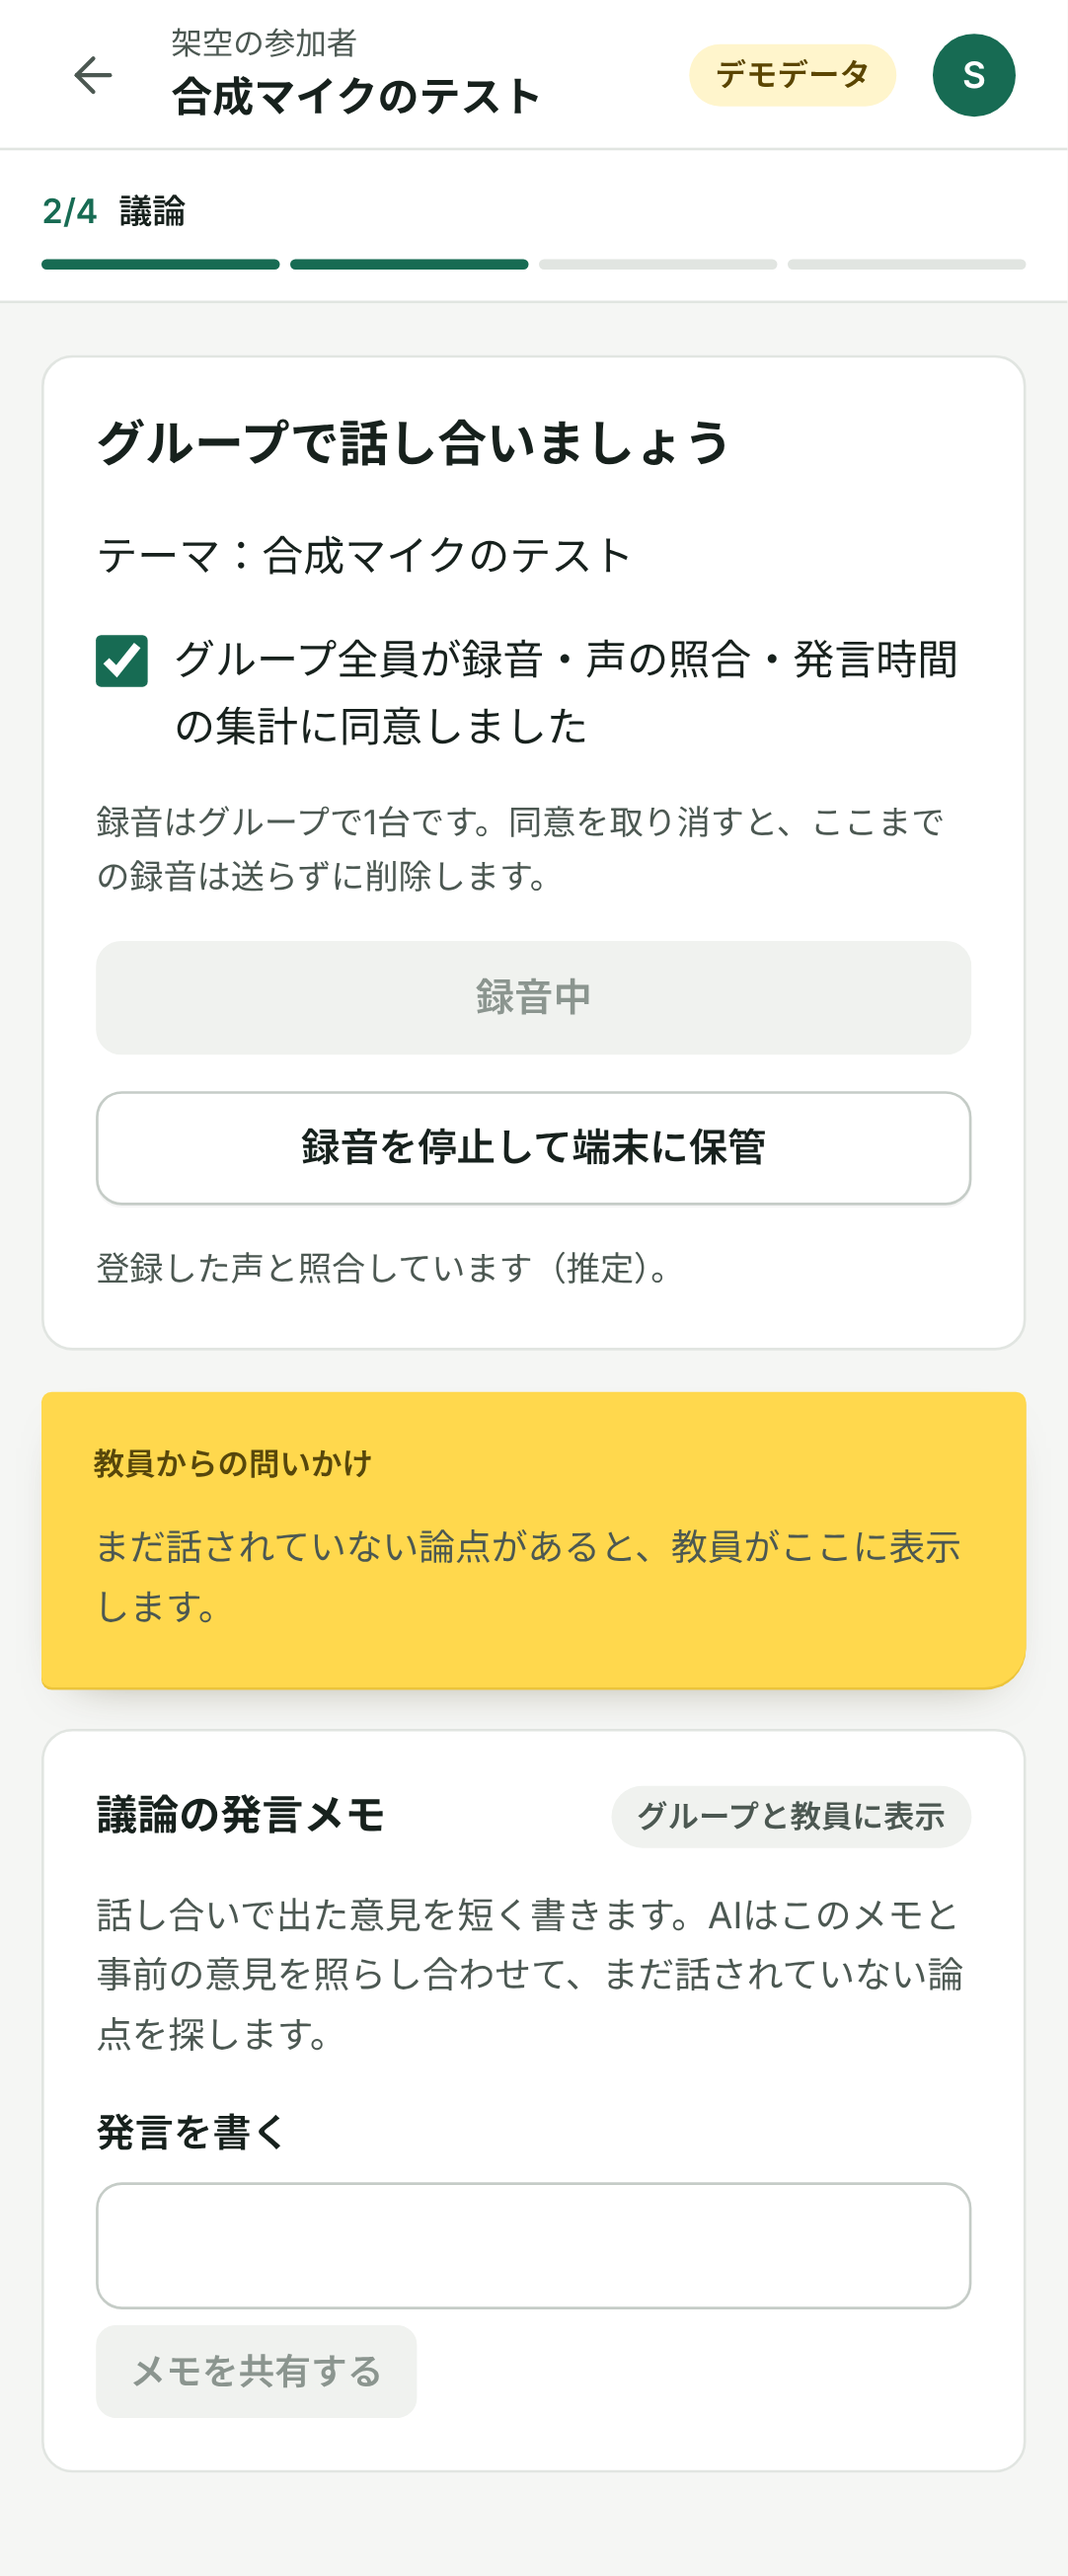
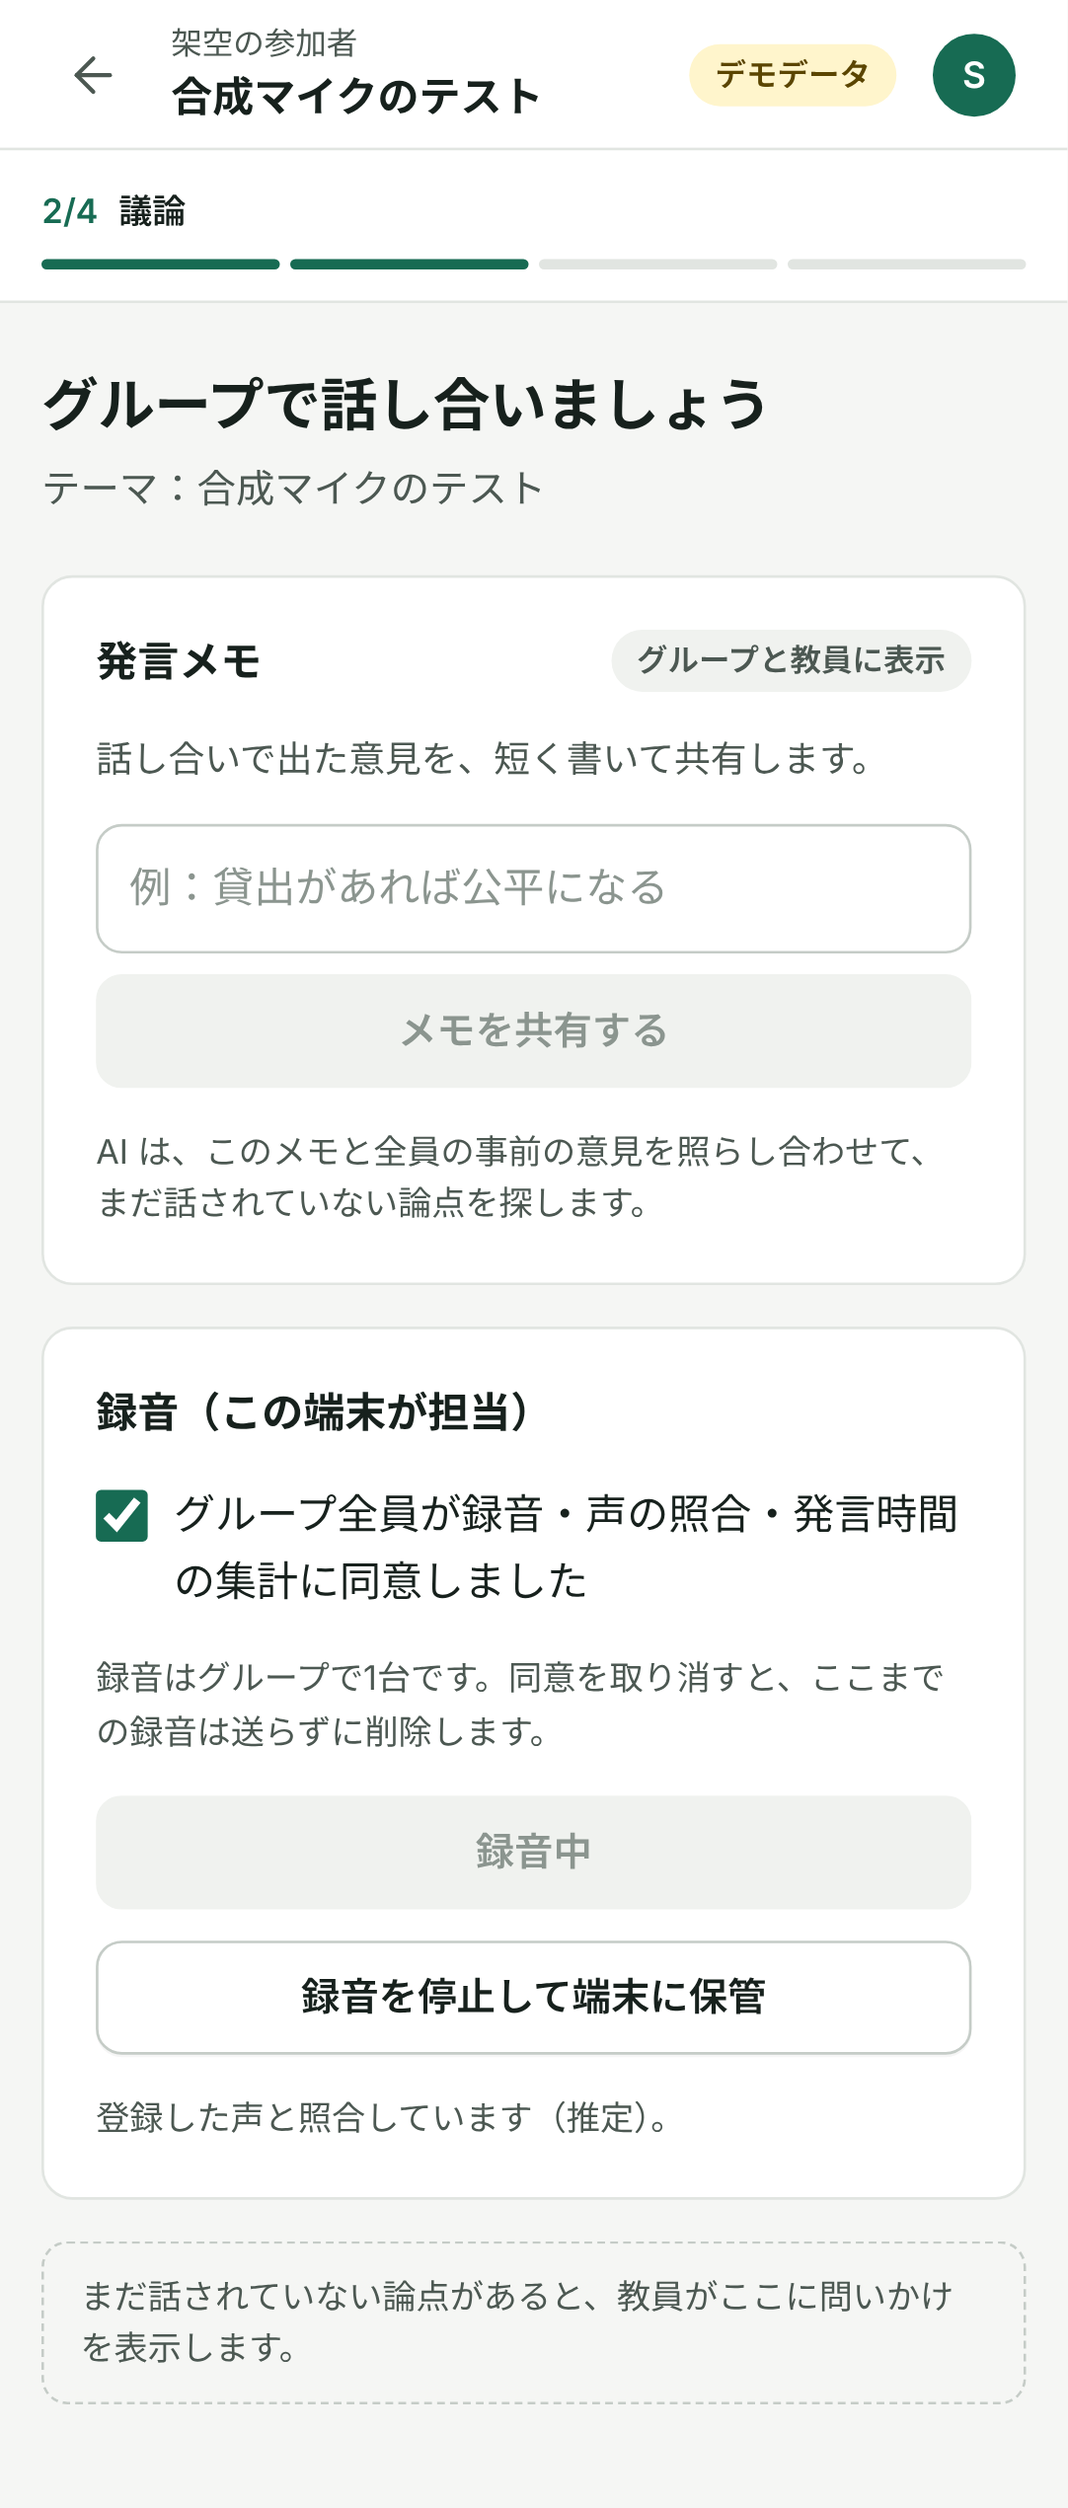
feat(web): 議論の作成・設定・使い方の画面を、今の流れとデザインシステムにそろえる (#62)
## 背景・目的

UI の全面見直しの仕上げです。#53 で部品は新しいデザインシステムになりましたが、次の3つの画面は、構成と文言が古いままでした。

- 議論の作成：入力欄だけで、作ったあとに何が起きるかが分かりませんでした。
- 使い方とプライバシー：次のような古い内容が残っていました。
  - 「Host」という言葉。
  - 「グループの数を決めて部屋を作る」という、今はない手順。
  - 投影画面と「見送る」の説明がない。
  - AI の注意が黄色（AI の論点専用の色）になっている。
  - 「Gemini による推定」という古い表記。
- 設定：保存ボタンが横いっぱいに伸びていました。

## 変更内容

- **議論の作成**（`/host/new`）：
  - 左に入力を置きました。テーマとクラス名に、何に使うかの補足を足しています。
  - 右に「作ったあとの流れ」を置きました（実際に順に進むので、番号を付けています）。
    1. 投影画面を映す
    2. 学生が事前の意見を書く
    3. 議論を始めると、AI が論点を提案する（全員に表示するか、見送る）
    4. 結論の中身を確かめる
  - 左上の Topos のロゴから、教員のホームへ戻れます。
- **使い方とプライバシー**（`/about`）：
  - 冒頭に「Topos でできること」を置きました。
  - 学生と教員の手順を、今の流れ（カメラでの読み取り、発言メモ、1〜5の目盛り、投影画面、見送る）に直しました。
  - 表の言葉を「教員」「同じグループの学生」にし、発言メモの行を足しました。
  - AI の注意は、淡い面にしました。表記は「AI による推定」にそろえています。
- **設定**：保存ボタンを横いっぱいに伸ばさないようにしました。

## 読んだタブと、方向性との対応

2026-11-08 に Docs の全タブを読み直しました。前回から変更はありません。

| タブ | 内容 | このPRとの対応 |
|---|---|---|
| UIフィードバック | 文言は最小限で、次にすることが分かる | 作成画面の横に、作ったあとの流れを短く置いた |
| UIフィードバック > サーバーフィードバック | 教員は招待制。QR はカメラで読み取る |
使い方に「教員として招待されたアカウントだけが作れる」「カメラで読み取る」と書いた |
| プロダクト・チーム案 | Topos | 使い方の冒頭を「Topos でできること」にした |

## 本番への影響

変わるのは3つの画面の見た目と文言だけです。API・Rules・データの形・Gemini の呼び出し回数は変わりません。

## 検証

- [x] 手元の `PW_CHROMIUM_PATH=/opt/pw-browsers/chromium bash
scripts/dev.sh check` が通りました（E2E 33件、API の単体と結合 171件・省略1件、Rules
14件などを含む全項目）。
  - 1回目の検査では、E2E が2件失敗しました。
- mobile.spec：作成画面に「←」を足したため、左上の Topos
のロゴが消えていました。「←」をやめて直しました（`575aa3d`）。
-
[…]

diff --git a/web/src/app/about/page.tsx b/web/src/app/about/page.tsx
@@ -3,41 +3,45 @@ import Link from "next/link";
 import { AppShell } from "@/components/shell";
 import { useHostUser } from "@/lib/hostAuth";
 
-const WHO = ["本人", "同じ部屋の人", "Host", "AI（Gemini）"];
+const WHO = ["本人", "同じグループの学生", "教員", "AI（Gemini）"];
 /** データごとに、WHO の順で「見られる範囲」を並べる */
 const ROWS = [
   ["議論の前の意見", "見られる", "見られない", "人数だけ", "本文だけ（名前は送らない）"],
   ["結論の一文", "見られる", "見られない", "人数と分かれ方", "本文だけ（名前は送らない）"],
-  ["AI の提案", "Hostが承認したもの", "Hostが承認したもの", "すべて", "—"],
+  ["AI の提案", "教員が全員に表示したもの", "教員が全員に表示したもの", "すべて（見送ることもできる）", "—"],
+  ["発言メモ", "見られる", "見られる", "見られる", "本文だけ（名前は送らない）"],
   ["議論の録音", "端末の中だけ", "—", "—", "全員の同意後に送信・分析し、音声は保存しない"],
   ["目標と振り返り", "端末の中だけ", "—", "—", "—"],
 ];
 
-/** 使い方とプライバシー。どのデータを誰が見られるかを、参加者・Hostの両方に示す */
+/** 使い方とプライバシー。どのデータを誰が見られるかを、学生と教員の両方に示す */
 export default function About() {
   const user = useHostUser();
   return (
     <AppShell title="使い方とプライバシー" nav={!!user} actions={!user && <Link className="btn btn--small" href="/">ログインに戻る</Link>} wide>
       <div className="body" style={{ maxWidth: 1100, width: "100%", margin: "0 auto" }}>
+        <section className="about-intro">
+          <h2 className="t-lg">Topos でできること</h2>
+          <p>議論の前に全員の考えを非公開で集め、まだ話されていない論点と、合意の中身のずれを AI が見つけて教員に知らせます。誰の考えも埋もれない議論を、すべての教室に届けるための道具です。</p>
+        </section>
         <div className="row">
           <section className="box box--md pad stack">
-            <h2 className="t-md">参加者の使い方</h2>
-            <ol className="stack stack--tight" style={{ margin: 0, paddingLeft: 22 }}>
-              <li>Googleでログインし、ホームから参加コードを入力します。QRコードで開いた場合も、ログイン後のホームから参加します。</li>
-              <li>今日の目標と、議論の前の意見を書きます。</li>
-              <li>グループで話し合います。録音を始めると、画面を見なくても大丈夫です。</li>
-              <li>結論を自分の言葉で一文で書きます。</li>
-              <li>結果を見て振り返り、次の目標を決めます。</li>
+            <h2 className="t-md">学生の使い方</h2>
+            <ol className="steps-list">
+              <li><b>参加する</b><span>Google でログインし、6桁の参加コードを入れるか、「カメラで読み取る」で QR を読みます。</span></li>
+              <li><b>事前の意見を書く</b><span>議論の前に、自分の考えを書きます。本文は自分だけが見られます。</span></li>
+              <li><b>話し合う</b><span>出た意見を発言メモで共有します。教員からの問いかけが届いたら、それについても話します。</span></li>
+              <li><b>結論を自分の言葉で書く</b><span>結論を一文で書き、どのくらい納得しているかを1〜5で選びます。</span></li>
+              <li><b>結果を見る</b><span>グループの理解がどう分かれたかを見て、振り返ります。</span></li>
             </ol>
           </section>
           <section className="box box--md pad stack">
-            <h2 className="t-md">Hostの使い方</h2>
-            <ol className="stack stack--tight" style={{ margin: 0, paddingLeft: 22 }}>
-              <li>Google アカウントで登録し、テーマとグループの数を決めて部屋を作ります。</li>
-              <li>参加コードと QR コードを教室で映します。</li>
-              <li>全員が意見を書いたら、議論を始めます。</li>
-              <li>AI が見つけた「まだ話されていない論点」を確かめ、必要なものだけ全員に表示します。</li>
-              <li>結論の一文がそろったら分析し、セッション全体とグループごとの結果を見ます。</li>
+            <h2 className="t-md">教員の使い方</h2>
+            <ol className="steps-list">
+              <li><b>議論を作る</b><span>テーマを決めて作ります。教員として招待されたアカウントだけが作れます。</span></li>
+              <li><b>投影画面を映す</b><span>参加コードと QR を教室に映し、全員の事前の意見がそろったら議論を始めます。</span></li>
+              <li><b>論点を投げかける</b><span>AI が提案した「まだ話されていない論点」を確かめ、全員に表示するか、見送ります。</span></li>
+              <li><b>結果をまとめる</b><span>議論を終え、全員の結論の一文がそろったら、合意の中身と指標を見ます。</span></li>
             </ol>
           </section>
         </div>
@@ -57,9 +61,9 @@ export default function About() {
           </table>
         </section>
 
-        <section className="box box--md box--yellow pad stack stack--tight">
+        <section className="box box--md box--tint pad stack stack--tight">
           <h2 className="t-sm">AI の結果について</h2>
-          <p className="t-note">AI の分析には誤りが含まれることがあります。画面では「Gemini による推定」や「デモデータ」と表示し、実際に測った結果と区別しています。成績の判定には使いません。</p>
+          <p className="t-note">AI の分析には誤りが含まれることがあります。画面では「AI による推定」や「デモデータ」と表示し、実際に測った結果と区別しています。成績の判定には使いません。</p>
         </section>
       </div>
     </AppShell>

diff --git a/web/src/app/host/new/page.tsx b/web/src/app/host/new/page.tsx
@@ -57,21 +57,33 @@ export default function NewRoom() {
     );
   }
   return (
-    <AppShell title="新しい議論">
-      <div className="flow">
-        <form className="flow-card" onSubmit={create} aria-labelledby="new-title">
-          <h2 id="new-title" className="flow-card__title">議論の準備</h2>
+    <AppShell title="新しい議論" wide>
+      <div className="create">
+        <form className="panel create__form" onSubmit={create} aria-labelledby="new-title">
+          <h2 id="new-title" className="t-md">テーマを決める</h2>
           <div className="field">
             <label className="field__label" htmlFor="title">テーマ</label>
             <input id="title" className="input" value={title} maxLength={100} required placeholder="例：大学の課題提出でAIの利用を認めるべきか" onChange={(e) => setTitle(e.target.value)} />
+            <p className="field__hint">賛成と反対、条件付きなど、考えが分かれそうな問いにすると、まだ話されていない論点が見つかりやすくなります。</p>
           </div>
           <div className="field">
             <label className="field__label" htmlFor="label">クラス名（任意）</label>
             <input id="label" className="input" value={label} maxLength={40} placeholder="例：2年3組" onChange={(e) => setLabel(e.target.value)} />
+            <p className="field__hint">作った議論の一覧で見分けるために使います。学生には表示しません。</p>
           </div>
           {error && <p className="notice notice--error" role="alert">{error}</p>}
           <div className="home-actions"><button className="btn btn--blue" type="submit" disabled={busy || !title.trim()}>{busy ? "作成しています…" : "作成する"}</button></div>
         </form>
+        {/* 作ったあとに起きること（実際に順に進むので番号を付ける） */}
+        <aside className="create__next" aria-labelledby="next-steps-title">
+          <h2 id="next-steps-title" className="t-sm">作ったあとの流れ</h2>
+          <ol className="steps-list">
+            <li><b>参加コードと QR を映す</b><span>上の帯の「投影画面」を開き、プロジェクターに映します。</span></li>
+            <li><b>学生が事前の意見を書く</b><span>本文は本人だけが見られ、教員にも届きません。</span></li>
+            <li><b>議論を始める</b><span>AI が、まだ話されていない論点を黄色の付箋で提案します。全員に表示するか、見送るかを選びます。</span></li>
+            <li><b>結論の中身を確かめる</b><span>終わったら全員が結論を一文で書き、理解の分かれ方を色の付箋で見ます。</span></li>
+          </ol>
+        </aside>
       </div>
     </AppShell>
   );

diff --git a/web/src/app/ds.css b/web/src/app/ds.css
@@ -718,3 +718,17 @@ progress::-moz-progress-bar { background: var(--brand); }
 .scale__option[aria-pressed="true"] { background: var(--brand); border-color: var(--brand); color: #fff; }
 .scale__ends { display: flex; justify-content: space-between; font-size: 12px; color: var(--ink-2); }
 .scale__value { font-size: 14px; font-weight: 600; color: var(--brand-ink); min-height: 1.6em; }
+
+/* ---------- 議論の作成：左に入力、右に作ったあとの流れ ---------- */
+.create { width: min(1080px, 100%); margin: 0 auto; display: grid; grid-template-columns: minmax(0, 1fr); gap: 20px; align-items: start; }
+@media (min-width: 900px) { .create { grid-template-columns: minmax(0, 3fr) minmax(280px, 2fr); gap: 28px; } }
+.create__next { display: flex; flex-direction: column; gap: 12px; padding: 4px 4px 0; }
+/* 順に進む手順：番号の丸と、太字の見出し＋説明 */
+.steps-list { list-style: none; margin: 0; padding: 0; counter-reset: step; display: flex; flex-direction: column; gap: 14px; }
+.steps-list li { counter-increment: step; display: grid; grid-template-columns: 28px minmax(0, 1fr); column-gap: 12px; row-gap: 2px; }
+.steps-list li::before { content: counter(step); grid-row: 1 / span 2; display: grid; place-items: center; width: 26px; height: 26px; border-radius: 50%; background: var(--brand-soft); color: var(--brand-ink); font-size: 13px; font-weight: 700; font-variant-numeric: tabular-nums; }
+.steps-list b { font-size: 15px; font-weight: 700; line-height: 1.6; }
+.steps-list span { font-size: 14px; color: var(--ink-2); line-height: 1.65; }
+/* 使い方：冒頭の紹介 */
+.about-intro { display: flex; flex-direction: column; gap: 8px; max-width: 70ch; padding: 4px 0 8px; }
+.about-intro p { color: var(--ink-2); }

diff --git a/web/src/components/host/ProfileForm.tsx b/web/src/components/host/ProfileForm.tsx
@@ -35,7 +35,7 @@ export function ProfileForm({ defaultName, submitLabel, onSaved }: { defaultName
         </div>
       </div>
       <p className="field__hint">プロフィールはこの端末にだけ保存します。参加者には表示しません。</p>
-      <button className="btn btn--blue btn--block" type="submit" disabled={!name.trim()}>{submitLabel}</button>
+      <div className="home-actions"><button className="btn btn--blue" type="submit" disabled={!name.trim()}>{submitLabel}</button></div>
     </form>
   );
 }
